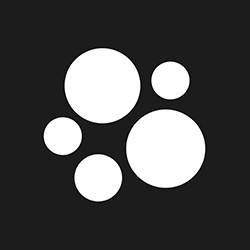
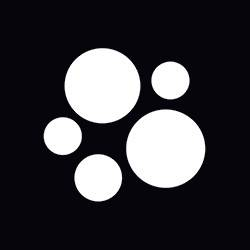
:sparkles: Add Beacons AI

diff --git a/README.md b/README.md
@@ -67,7 +67,7 @@ Type this command `make generate-gif` to generate [assets/github.gif](assets/git
   <a href="mailto:@matyo91:matrix.org"><img src="https://img.icons8.com/ios/96/matrix-logo.png" alt="matrix"/></a>
   <a href="https://matyo91.newgrounds.com"><img src="https://img.ngfiles.com/misc/tank_logo_medium.gif" alt="Newgrounds" width="96" height="96" /></a>
   <a href="https://www.goodreads.com/matyo91"><img src="https://img.icons8.com/ios-glyphs/96/goodreads.png" alt="Goodreads" /></a>
-  <a href="https://beacons.ai/matyo91"><img src="https://github.com/matyo91/matyo91/raw/main/assets/beacons_ai.jpg" alt="Beacons AI" /></a>
+  <a href="https://beacons.ai/matyo91"><img src="https://github.com/matyo91/matyo91/raw/main/assets/beacons_ai.jpg" alt="Beacons AI" width="96" height="96" /></a>
 </p>
 
 Icons by [https://icons8.com](https://icons8.com)
